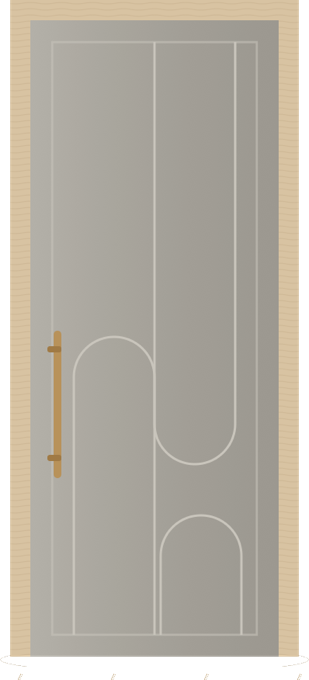
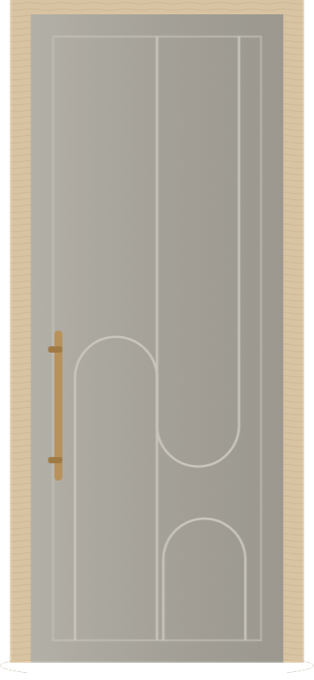
Xonada ko'ring: eshik devorga to'liq o'lchamida o'rnatiladi (kattaroq, nalichnik devorda, ostona)

diff --git a/assets/css/style.css b/assets/css/style.css
@@ -723,15 +723,15 @@ body.loading .portal-photo { transform: scale(1.14) !important; filter: brightne
 .room-sec { background: var(--ivory, #f6f1e9); }
 .room { display: grid; grid-template-columns: minmax(0, 1.6fr) minmax(0, 1fr); gap: 40px; align-items: center; }
 .room-stage { position: relative; height: min(600px, 70svh); perspective: 1300px; perspective-origin: 50% 42%; overflow: hidden; border-radius: 22px; background: #2a2119; container-type: size; }
-.room-scene { --ar: .5; --ry: 0deg; --dh: min(330px, 62cqh); --dw: calc(var(--dh) * var(--ar)); --W: 125cqw; --WH: calc(var(--dh) + 26cqh); --D: 70cqh;
+.room-scene { --ar: .5; --ry: 0deg; --dh: min(420px, 70cqh); --dw: calc(var(--dh) * var(--ar)); --ow: calc(var(--dw) * .84); --oh: calc(var(--dh) * .93); --W: 125cqw; --WH: calc(var(--dh) * 1.32); --D: 70cqh;
   position: absolute; left: 50%; top: 50%; width: var(--W); height: var(--WH); margin-left: calc(var(--W) / -2); margin-top: calc(var(--WH) / -2 - 4cqh);
   transform-style: preserve-3d; transform: translateZ(calc(var(--D) * -.55)) rotateY(var(--ry)); transition: transform 1.2s cubic-bezier(.4, .1, .2, 1); }
 .room-scene > * { position: absolute; display: block; }
 .rm-wall { top: 0; background: linear-gradient(180deg, #e9dfd0, #ddd0bd); }
 .rm-wall::after { content: ""; position: absolute; left: 0; right: 0; bottom: 0; height: 14px; background: #f4efe7; box-shadow: 0 -1px 0 rgba(0, 0, 0, .08); }
-.rm-wall.l { left: 0; width: calc((var(--W) - var(--dw)) / 2); height: var(--WH); }
-.rm-wall.r { right: 0; width: calc((var(--W) - var(--dw)) / 2); height: var(--WH); }
-.rm-wall.t { left: calc((var(--W) - var(--dw)) / 2); width: var(--dw); height: calc(var(--WH) - var(--dh)); }
+.rm-wall.l { left: 0; width: calc((var(--W) - var(--ow)) / 2); height: var(--WH); }
+.rm-wall.r { right: 0; width: calc((var(--W) - var(--ow)) / 2); height: var(--WH); }
+.rm-wall.t { left: calc((var(--W) - var(--ow)) / 2); width: var(--ow); height: calc(var(--WH) - var(--oh)); }
 .rm-wall.t::after { display: none; }
 .rm-art { position: absolute; right: 18%; top: 22%; width: 90px; height: 116px; border: 6px solid #fff; box-shadow: 0 6px 18px rgba(0, 0, 0, .18); background: linear-gradient(135deg, #b9a27e, #6f5a43 60%, #2f3e5c); }
 .rm-lamp { position: absolute; left: 22%; top: 18%; width: 34px; height: 54px; border-radius: 4px 4px 18px 18px; background: linear-gradient(#f3d9a6, #d6b98a); box-shadow: 0 0 60px 30px rgba(255, 214, 150, .35); }
@@ -740,15 +740,15 @@ body.loading .portal-photo { transform: scale(1.14) !important; filter: brightne
 .rm-side.r { right: 0; transform-origin: right center; transform: rotateY(90deg); }
 .rm-floor { left: 0; top: var(--WH); width: var(--W); height: var(--D); transform-origin: top center; transform: rotateX(90deg); background: repeating-linear-gradient(90deg, #a9825a 0 70px, #9b7650 70px 72px, #b08a61 72px 140px, #9b7650 140px 142px); }
 .rm-ceil { left: 0; top: 0; width: var(--W); height: var(--D); transform-origin: top center; transform: rotateX(90deg); background: #efe8dd; }
-.rm-beyond { left: calc((var(--W) - var(--dw)) / 2 - 18cqw); width: calc(var(--dw) + 36cqw); top: calc(var(--WH) - var(--dh) - 10cqh); height: calc(var(--dh) + 10cqh); transform: translateZ(-34cqh); overflow: hidden; background: #3a2c1f; }
+.rm-beyond { left: calc((var(--W) - var(--ow)) / 2 - 18cqw); width: calc(var(--ow) + 36cqw); top: calc(var(--WH) - var(--oh) - 10cqh); height: calc(var(--oh) + 10cqh); transform: translateZ(-34cqh); overflow: hidden; background: #3a2c1f; }
 .rm-beyond img { width: 100%; height: 100%; object-fit: cover; object-position: 44% 40%; transform: scale(1.5); transform-origin: 62% 40%; }
 .rm-jamb { background: #cdbfa8; }
-.rm-jamb.l, .rm-jamb.r { top: calc(var(--WH) - var(--dh)); width: 34cqh; height: var(--dh); }
-.rm-jamb.l { left: calc((var(--W) - var(--dw)) / 2); transform-origin: left center; transform: rotateY(90deg); }
-.rm-jamb.r { left: calc((var(--W) + var(--dw)) / 2 - 34cqh); transform-origin: right center; transform: rotateY(-90deg); }
-.rm-jamb.t { left: calc((var(--W) - var(--dw)) / 2); top: calc(var(--WH) - var(--dh)); width: var(--dw); height: 34cqh; transform-origin: top center; transform: rotateX(-90deg); background: #bfb099; }
-.rm-door { left: calc((var(--W) - var(--dw)) / 2); top: calc(var(--WH) - var(--dh)); width: var(--dw); height: var(--dh); transform-style: preserve-3d; transform-origin: right center; transform: translateZ(1px); transition: transform 1.3s cubic-bezier(.6, .02, .25, 1); cursor: pointer; }
-.rm-door.open { transform: translateZ(1px) rotateY(-80deg); }
+.rm-jamb.l, .rm-jamb.r { top: calc(var(--WH) - var(--oh)); width: 34cqh; height: var(--oh); }
+.rm-jamb.l { left: calc((var(--W) - var(--ow)) / 2); transform-origin: left center; transform: rotateY(90deg); }
+.rm-jamb.r { left: calc((var(--W) + var(--ow)) / 2 - 34cqh); transform-origin: right center; transform: rotateY(-90deg); }
+.rm-jamb.t { left: calc((var(--W) - var(--ow)) / 2); top: calc(var(--WH) - var(--oh)); width: var(--ow); height: 34cqh; transform-origin: top center; transform: rotateX(-90deg); background: #bfb099; }
+.rm-door { left: calc((var(--W) - var(--dw)) / 2); top: calc(var(--WH) - var(--dh)); width: var(--dw); height: var(--dh); transform-style: preserve-3d; transform-origin: right center; transform: translateZ(2px); transition: transform 1.3s cubic-bezier(.6, .02, .25, 1); cursor: pointer; }
+.rm-door.open { transform: translateZ(2px) rotateY(-80deg); }
 .rm-door .rf { position: absolute; inset: 0; display: block; background-repeat: no-repeat; backface-visibility: hidden; }
 .rm-door .front { box-shadow: 0 10px 30px rgba(0, 0, 0, .25); }
 .rm-door .back { transform: rotateY(180deg) translateZ(14px); filter: brightness(.8); }
@@ -780,3 +780,5 @@ body.loading .portal-photo { transform: scale(1.14) !important; filter: brightne
 .room-types button.on { background: var(--ink); color: #fff; border-color: var(--ink); }
 /* fonsiz PNG eshik: soya eshik shaklida tushadi */
 .rm-door .front { box-shadow: none; filter: drop-shadow(0 10px 18px rgba(0, 0, 0, .28)); }
+/* eshik ostidagi ostona: tabaqa va pol orasidagi tirqish qorong'i ko'rinmasin */
+.rm-sill { left: calc((var(--W) - var(--dw)) / 2); width: var(--dw); top: calc(var(--WH) - var(--dh) * .06); height: calc(var(--dh) * .06); background: linear-gradient(180deg, #b48d63, #a37d55); transform: translateZ(1px); }

diff --git a/assets/js/main.js b/assets/js/main.js
@@ -365,7 +365,7 @@
   };
   /* Xonada ko'ring: eshik devorga o'rnatilgan, chapdan/to'g'ridan/o'ngdan ko'rinadi va ochiladi */
   // Fonsiz PNG eshiklar (assets/img/products/png): [eni, bo'yi] va turi (oynali / to'liq / yashirin)
-  const DOOR_PNG = {"k1002":[300,680],"k1003":[307,680],"k1005":[301,680],"k1006":[252,680],"k1008":[297,680],"k1009":[303,680],"k1010":[301,680],"k1011":[305,680],"k1012":[305,680],"k1013":[299,680],"k1014":[300,680],"k1015":[307,680],"k1016":[303,680],"k1017":[303,680],"k1018":[258,680],"k1019":[345,680],"k1020":[338,680],"k1021":[329,680],"k1022":[450,680],"k1024":[302,680],"k1025":[304,680],"k1026":[306,680],"k1027":[306,680],"k1028":[300,680],"k1029":[252,680],"k1030":[340,680],"k1031":[346,680],"k1032":[446,680],"k1033":[304,680],"k1034":[457,680],"k1035":[301,680],"kc01":[309,680],"kc02":[333,680],"kc03":[330,680],"kn01":[334,680],"kn02":[325,680],"kn03":[341,680],"kn04":[331,680],"kn05":[331,680]};
+  const DOOR_PNG = {"k1002":[300,680],"k1003":[307,680],"k1005":[301,680],"k1006":[252,680],"k1008":[297,680],"k1009":[303,680],"k1010":[301,680],"k1011":[305,680],"k1012":[305,680],"k1013":[299,680],"k1014":[300,680],"k1015":[307,680],"k1016":[303,680],"k1017":[303,680],"k1018":[258,680],"k1019":[345,680],"k1020":[338,680],"k1021":[329,680],"k1022":[450,680],"k1024":[302,680],"k1025":[304,680],"k1026":[306,680],"k1027":[306,680],"k1028":[300,680],"k1029":[252,680],"k1030":[340,680],"k1031":[346,680],"k1032":[446,680],"k1033":[304,680],"k1034":[457,680],"k1035":[301,680],"kc01":[314,680],"kc02":[339,680],"kc03":[337,680],"kn01":[334,680],"kn02":[325,680],"kn03":[341,680],"kn04":[331,680],"kn05":[331,680]};
   const DOOR_TYPE = {"k1002":"full","k1003":"full","k1005":"glass","k1006":"hidden","k1008":"full","k1009":"full","k1010":"full","k1011":"full","k1012":"full","k1013":"full","k1014":"full","k1015":"full","k1016":"glass","k1017":"full","k1018":"hidden","k1019":"glass","k1020":"glass","k1021":"full","k1022":"glass","k1024":"full","k1025":"full","k1026":"glass","k1027":"full","k1028":"glass","k1029":"hidden","k1030":"glass","k1031":"full","k1032":"glass","k1033":"glass","k1034":"glass","k1035":"full","kc01":"full","kc02":"full","kc03":"full","kn01":"full","kn02":"full","kn03":"full","kn04":"full","kn05":"full"};
   const doorRatio = id => (DOOR_PNG[id][0] / DOOR_PNG[id][1]).toFixed(4);
   const doorBg = p => `background-image:url('assets/img/products/png/${p.id}.png');background-size:100% 100%;background-position:center`;

diff --git a/index.html b/index.html
@@ -263,6 +263,7 @@
           <div class="rm-wall l"><i class="rm-art"></i></div>
           <div class="rm-wall r"><i class="rm-lamp"></i></div>
           <div class="rm-wall t"></div>
+          <div class="rm-sill"></div>
           <div class="rm-door" id="roomDoor"><i class="rf front"></i><i class="rf back"></i><i class="rf edge"></i></div>
         </div>
         <div class="room-views">
